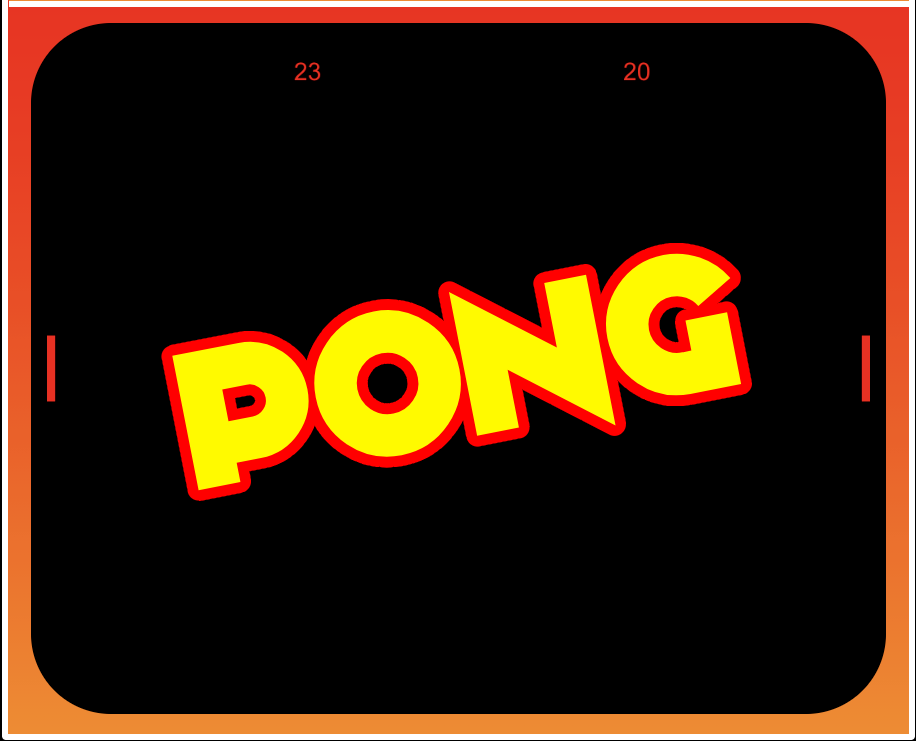
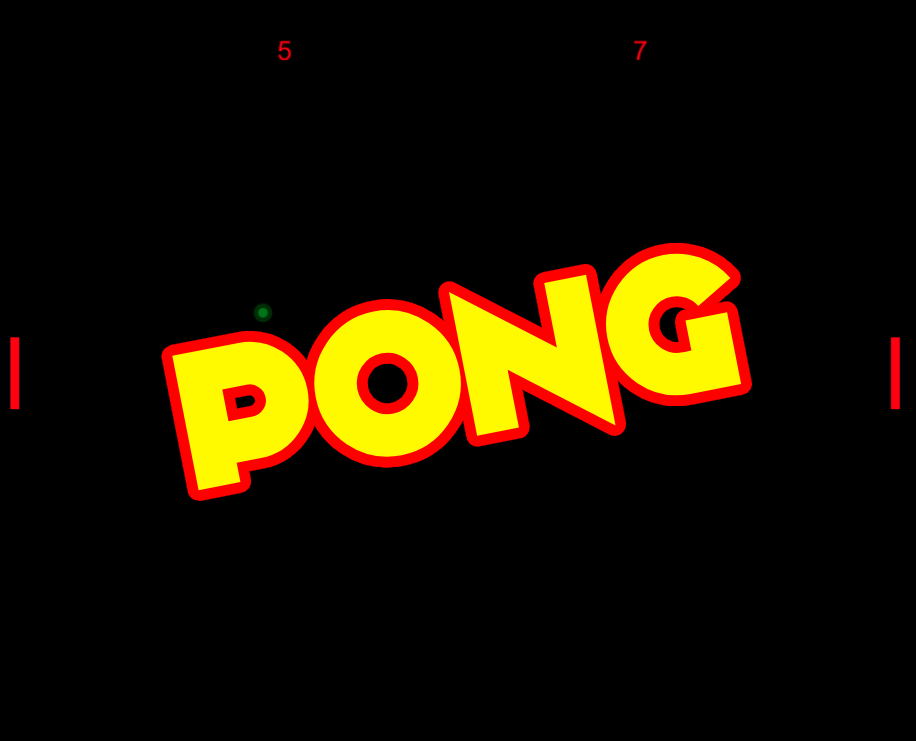
arcade CSS

diff --git a/src/components/projects/Arcade.js b/src/components/projects/Arcade.js
@@ -1,6 +1,7 @@
 import { render } from '@testing-library/react';
 import { useState } from 'react';
 import React from 'react';
+import pongImg from "../../assets/photos/PONG.png"
 import playPong from '../../games/pong/pong';
 import { Route, Switch} from 'react-router-dom';
 
@@ -15,12 +16,20 @@ const Arcade = () => {
 
   return (<div id="arcade">
     <p>This portion of the website works best in the browser.</p>
-    <div class={`arcade-machine ${selected ? "on neo-geo" : ""}`}>
-    <div class="arcade-header">{selected && <h1>NICKY-DOVER™</h1>}</div>
-    <div id="arcade-main"></div>
+    <div className={`arcade-machine neo-geo ${selected && "on"}`}>
+
+    <div className="arcade-header">
+      <h1>NICKY-DOVER™</h1>
+      <div class="games">
+        <img src={pongImg} onClick={() => renderArcade(playPong)}/>
+        <img src={pongImg} onClick={() => renderArcade(playPong)}/>
+        <img src={pongImg} onClick={() => renderArcade(playPong)}/>
+        <img src={pongImg} onClick={() => renderArcade(playPong)}/>
+      </div>
+    </div>
+    <div id="arcade-main"><canvas width="1000" height="600"></canvas></div>
     </div>
     <br/>
-    <button onClick={() => renderArcade(playPong)}>Pong</button>
   </div>)
 }
 

diff --git a/src/stylesheets/Projects.css b/src/stylesheets/Projects.css
@@ -219,7 +219,12 @@ canvas {
     /* margin: 0 0 4em 0; */
 }
 
-.arcade-machine.on{
+#arcade-main {
+    width: 1000;
+    height: 600;
+}
+
+.arcade-machine{
     margin: 0 auto;
     max-width: 900px;
     border: .4em solid white;
@@ -234,5 +239,19 @@ canvas {
     background: rgb(255,0,0);
     background: linear-gradient(180deg, rgba(255,0,0,1) 0%, rgba(255,136,0,1) 100%);
     font-family: serif;
-    border-bottom: .4em solid white;
+
+}
+
+.games {
+    display: grid;
+    grid-template-columns: repeat(4, 25%);
+    justify-items: center;
+    margin-bottom: 1em;
+}
+
+.games img {
+    max-width: 200px;
+    height: 150px;
+    border-radius: 1em;
+    border: .2em solid white;
 }
